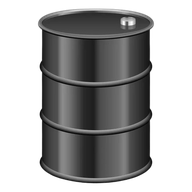
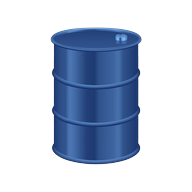
Add files via upload

diff --git a/index.html b/index.html
@@ -539,8 +539,7 @@
   <main class="main">
     <div class="topbar">
       <div style="display:flex;align-items:center;gap:10px">
-        <button type="button" class="topbar-home" id="btnSidebarHome" title="Buka menu sidebar">🏠</button>
-        <div class="crumbs" id="crumbs">🏠 <span>Beranda</span> <strong id="crumbTitle">Dasbor</strong></div>
+        <button type="button" class="topbar-home" id="btnSidebarHome" title="Buka menu">☰</button>
       </div>
       <div class="userbox">
         <div class="avatar">SA</div>
@@ -1509,7 +1508,6 @@ const go = (route) => {
     const el = $('#view-'+v);
     if (el) el.classList.toggle('hidden', v!==route);
   });
-  $('#crumbTitle').textContent = ({home:'Dasbor', pricelist:'Daftar Harga', product:'Manajemen Produk', customer:'Manajemen Pelanggan', owner:'Data Perusahaan', quotation:'Buat Penawaran', 'quotation-list':'Daftar Penawaran', commission:'Kalkulator Komisi'})[route];
   if (route==='pricelist') renderPricelist();
   if (route==='product'){
     renderProducts();
@@ -3705,7 +3703,20 @@ $('#btnInstall').addEventListener('click', async () => {
   $('#installHint').style.display = 'none';
 });
 if ('serviceWorker' in navigator){
-  window.addEventListener('load', () => { navigator.serviceWorker.register('sw.js').catch(()=>{}); });
+  window.addEventListener('load', () => {
+    navigator.serviceWorker.register('sw.js').then(reg => {
+      // Jika ada versi baru yang menunggu, aktifkan & reload otomatis sekali
+      if (reg.waiting && !navigator.serviceWorker.controller) {
+        reg.waiting.postMessage({ type: 'SKIP_WAITING' });
+      }
+    }).catch(()=>{});
+  });
+  let refreshed = false;
+  navigator.serviceWorker.addEventListener('controllerchange', () => {
+    if (refreshed) return;
+    refreshed = true;
+    setTimeout(() => location.reload(), 400);
+  });
 }
 </script>
 </body>

diff --git a/sw.js b/sw.js
@@ -1,6 +1,9 @@
-const CACHE = 'sal-app-v67';
+const CACHE = 'sal-app-v70';
 self.addEventListener('install', e => {
   self.skipWaiting();
+});
+self.addEventListener('message', e => {
+  if (e.data && e.data.type === 'SKIP_WAITING') self.skipWaiting();
 });
 self.addEventListener('activate', e => {
   e.waitUntil(caches.keys().then(keys => Promise.all(keys.map(k => caches.delete(k)))).then(() => self.clients.claim()));
